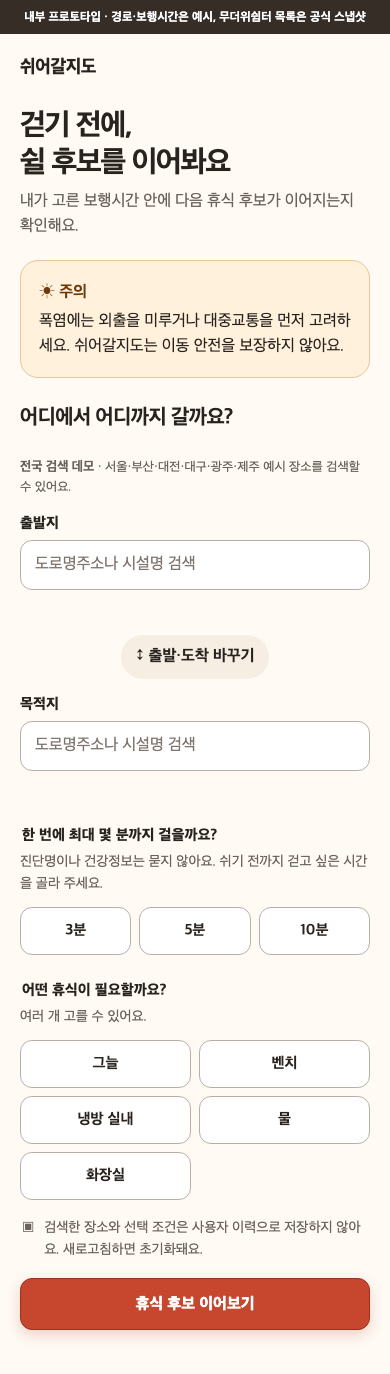
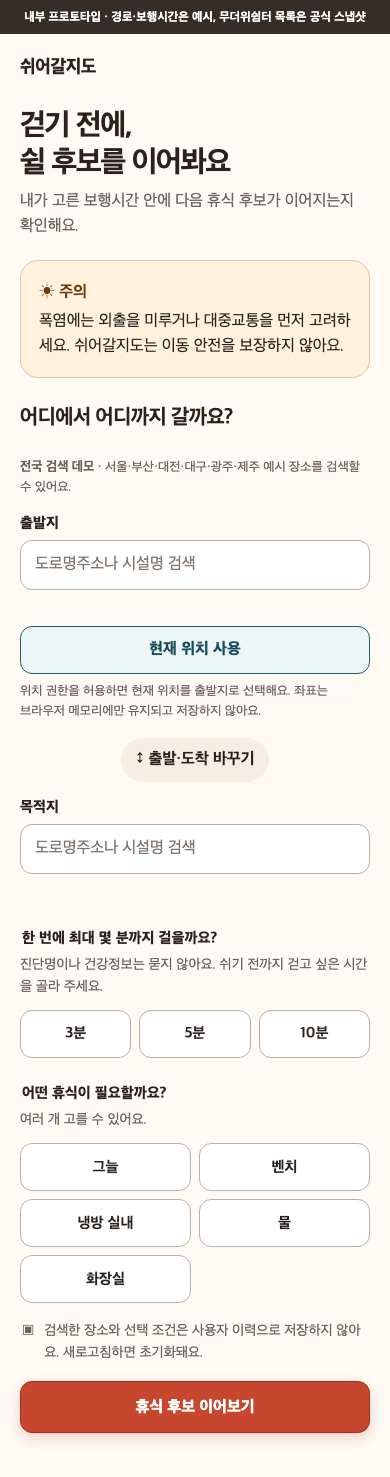
feat: support Korean input and current location

diff --git a/prototype/app.js b/prototype/app.js
@@ -32,8 +32,10 @@ const state = {
   minutes: null,
   conditions: [],
   errors: {},
-  lastResultScroll: 0
+  lastResultScroll: 0,
+  location: { status: 'idle', message: '' }
 };
+let locationRequestId = 0;
 
 function escapeHtml(value = '') {
   return value.replace(/[&<>'"]/g, (char) => ({ '&': '&amp;', '<': '&lt;', '>': '&gt;', "'": '&#39;', '"': '&quot;' })[char]);
@@ -67,6 +69,9 @@ function placeField(kind, label) {
     <input id="${kind}" type="search" data-search="${kind}" value="${escapeHtml(state.queries[kind])}" placeholder="도로명주소나 시설명 검색" autocomplete="off" aria-describedby="${kind}-selected ${kind}-error">
     <div id="${kind}-selected" class="selected-place">${selected ? `선택: ${selected.address}` : ''}</div>
     ${state.errors[kind] ? `<div id="${kind}-error" class="error">${state.errors[kind]}</div>` : ''}
+    ${kind === 'start' ? `<button type="button" class="location-button" data-action="use-location" ${state.location.status === 'loading' ? 'disabled' : ''}>${state.location.status === 'loading' ? '현재 위치 확인 중…' : '현재 위치 사용'}</button>
+      <p class="search-note">위치 권한을 허용하면 현재 위치를 출발지로 선택해요. 좌표는 브라우저 메모리에만 유지되고 저장하지 않아요.</p>
+      ${state.location.message ? `<div class="error" role="alert">${state.location.message}</div>` : ''}` : ''}
     ${searchResults(kind)}
   </div>`;
 }
@@ -82,7 +87,7 @@ function renderInput() {
       <h2 id="route-title">어디에서 어디까지 갈까요?</h2>
       <p class="search-note"><strong>전국 검색 데모</strong> · 서울·부산·대전·대구·광주·제주 예시 장소를 검색할 수 있어요.</p>
       ${placeField('start', '출발지')}
-      <button class="swap" data-action="swap">↕ 출발·도착 바꾸기</button>
+      <button class="swap" data-action="swap" ${state.start?.id === 'current-location' ? 'disabled title="현재 위치는 출발지로만 사용할 수 있어요."' : ''}>↕ 출발·도착 바꾸기</button>
       ${placeField('destination', '목적지')}
     </section>
     <fieldset class="section">
@@ -98,16 +103,31 @@ function renderInput() {
     <p class="privacy"><span aria-hidden="true">▣</span><span>검색한 장소와 선택 조건은 사용자 이력으로 저장하지 않아요. 새로고침하면 초기화돼요.</span></p>
     <button class="primary" data-action="submit">휴식 후보 이어보기</button>`;
   bindCommon();
-  document.querySelectorAll('[data-search]').forEach((input) => input.addEventListener('input', (event) => {
-    const kind = event.target.dataset.search;
-    state.queries[kind] = event.target.value;
-    state[kind] = null;
-    delete state.errors[kind];
-    renderInput();
-    const next = document.querySelector(`[data-search="${kind}"]`);
-    next.focus();
-    next.setSelectionRange(next.value.length, next.value.length);
-  }));
+  document.querySelectorAll('[data-search]').forEach((input) => {
+    const updateSearch = (target) => {
+      const kind = target.dataset.search;
+      state.queries[kind] = target.value;
+      state[kind] = null;
+      if (kind === 'start') {
+        locationRequestId += 1;
+        state.location = { status: 'idle', message: '' };
+      }
+      delete state.errors[kind];
+      renderInput();
+      const next = document.querySelector(`[data-search="${kind}"]`);
+      next.focus();
+      next.setSelectionRange(next.value.length, next.value.length);
+    };
+    input.addEventListener('compositionstart', () => { input.dataset.composing = 'true'; });
+    input.addEventListener('compositionend', (event) => {
+      delete input.dataset.composing;
+      updateSearch(event.target);
+    });
+    input.addEventListener('input', (event) => {
+      if (event.isComposing || event.target.dataset.composing === 'true') return;
+      updateSearch(event.target);
+    });
+  });
   document.querySelectorAll('input[name="minutes"]').forEach((input) => input.addEventListener('change', () => { state.minutes = Number(input.value); delete state.errors.minutes; renderInput(); }));
   document.querySelectorAll('input[name="conditions"]').forEach((input) => input.addEventListener('change', () => {
     state.conditions = input.checked ? [...state.conditions, input.value] : state.conditions.filter((c) => c !== input.value);
@@ -298,6 +318,52 @@ function handleDialogAction(action, el) {
   if (action === 'close-alternatives') { announce('대안 검토 선택됨 — 외부 서비스는 열지 않았어요.'); el.close(); }
   if (action === 'open-map' || action === 'open-source') { announce('프로토타입이라 외부 페이지는 열지 않았어요.'); el.close(); }
 }
+function useCurrentLocation() {
+  const requestId = ++locationRequestId;
+  if (!navigator.geolocation) {
+    state.location = { status: 'error', message: '이 브라우저에서는 현재 위치를 사용할 수 없어요. 시설명을 직접 입력해 주세요.' };
+    renderInput();
+    return;
+  }
+  state.location = { status: 'loading', message: '' };
+  renderInput();
+  navigator.geolocation.getCurrentPosition(
+    ({ coords }) => {
+      if (requestId !== locationRequestId) return;
+      const { latitude, longitude, accuracy } = coords;
+      if (![latitude, longitude].every(Number.isFinite)) {
+        state.location = { status: 'error', message: '현재 위치 좌표를 확인하지 못했어요. 시설명을 직접 입력해 주세요.' };
+        renderInput();
+        return;
+      }
+      const accuracyText = Number.isFinite(accuracy) ? ` · 정확도 약 ${Math.round(accuracy)}m` : '';
+      state.start = {
+        id: 'current-location',
+        name: '현재 위치',
+        address: `기기 위치정보로 선택됨${accuracyText}`,
+        region: '현재 위치',
+        lat: latitude,
+        lon: longitude,
+      };
+      state.queries.start = '현재 위치';
+      state.location = { status: 'ready', message: '' };
+      delete state.errors.start;
+      renderInput();
+      announce('현재 위치를 출발지로 선택했어요.');
+    },
+    (error) => {
+      if (requestId !== locationRequestId) return;
+      const messages = {
+        1: '위치 권한이 거부됐어요. 브라우저 설정에서 허용하거나 시설명을 직접 입력해 주세요.',
+        2: '현재 위치를 확인하지 못했어요. 잠시 후 다시 시도하거나 시설명을 직접 입력해 주세요.',
+        3: '현재 위치 확인 시간이 초과됐어요. 다시 시도하거나 시설명을 직접 입력해 주세요.',
+      };
+      state.location = { status: 'error', message: messages[error.code] || '현재 위치를 사용할 수 없어요. 시설명을 직접 입력해 주세요.' };
+      renderInput();
+    },
+    { enableHighAccuracy: true, timeout: 10000, maximumAge: 60000 },
+  );
+}
 function validateAndSubmit() {
   state.errors = {};
   if (!state.start) state.errors.start = '출발지를 선택해 주세요.';
@@ -316,6 +382,7 @@ function bindCommon() {
   document.querySelectorAll('[data-action]').forEach((button) => button.addEventListener('click', () => {
     const action = button.dataset.action;
     if (action === 'submit') validateAndSubmit();
+    if (action === 'use-location') useCurrentLocation();
     if (action === 'input') renderInput();
     if (action === 'result') renderResult();
     if (action === 'detail') { state.lastResultScroll = scrollY; renderDetail(); window.scrollTo(0,0); }

diff --git a/prototype/tests/prototype.spec.js b/prototype/tests/prototype.spec.js
@@ -138,6 +138,88 @@ test('필수값 오류를 보여주고 첫 입력에 초점을 둔다', async ({
   await expect(page.getByLabel('출발지')).toBeFocused();
 });
 
+test('한글 조합 중에는 검색 입력 DOM을 교체하지 않고 조합 완료 후 결과를 보여준다', async ({ page }) => {
+  await page.goto('/');
+  const input = page.getByLabel('출발지');
+  const original = await input.elementHandle();
+  await input.evaluate((element) => {
+    element.dispatchEvent(new CompositionEvent('compositionstart', { bubbles: true, data: '' }));
+    element.value = '서';
+    element.dispatchEvent(new InputEvent('input', {
+      bubbles: true,
+      data: '서',
+      inputType: 'insertCompositionText',
+      isComposing: true,
+    }));
+  });
+  expect(await original.evaluate((element) => element.isConnected)).toBe(true);
+  await input.evaluate((element) => {
+    element.value = '서울';
+    element.dispatchEvent(new CompositionEvent('compositionend', { bubbles: true, data: '서울' }));
+  });
+  await expect(page.getByRole('searchbox', { name: '출발지' })).toHaveValue('서울');
+  await expect(page.getByRole('button', { name: /서울시청/ })).toBeVisible();
+});
+
+test('모바일 사용자는 위치 권한으로 현재 위치를 출발지로 선택할 수 있다', async ({ page }) => {
+  await page.addInitScript(() => {
+    Object.defineProperty(navigator, 'geolocation', {
+      configurable: true,
+      value: {
+        getCurrentPosition(success) {
+          success({ coords: { latitude: 37.5665, longitude: 126.978, accuracy: 18 } });
+        },
+      },
+    });
+  });
+  await page.goto('/');
+  await page.getByRole('button', { name: '현재 위치 사용' }).click();
+  await expect(page.getByLabel('출발지')).toHaveValue('현재 위치');
+  await expect(page.getByText(/기기 위치정보로 선택됨/)).toBeVisible();
+  await expect(page.getByText(/브라우저 메모리에만/)).toBeVisible();
+  await expect(page.getByRole('button', { name: '출발·도착 바꾸기' })).toBeDisabled();
+});
+
+test('위치 권한이 거부되어도 시설명 직접 입력을 계속 사용할 수 있다', async ({ page }) => {
+  await page.addInitScript(() => {
+    Object.defineProperty(navigator, 'geolocation', {
+      configurable: true,
+      value: {
+        getCurrentPosition(_success, error) {
+          error({ code: 1 });
+        },
+      },
+    });
+  });
+  await page.goto('/');
+  await page.getByRole('button', { name: '현재 위치 사용' }).click();
+  await expect(page.getByRole('alert')).toContainText('위치 권한이 거부됐어요');
+  await expect(page.getByRole('searchbox', { name: '출발지' })).toBeEnabled();
+  await page.getByRole('searchbox', { name: '출발지' }).fill('서울');
+  await expect(page.getByRole('button', { name: /서울시청/ })).toBeVisible();
+});
+
+test('위치 확인 중 시설명을 입력하면 늦게 도착한 위치 응답이 입력을 덮어쓰지 않는다', async ({ page }) => {
+  await page.addInitScript(() => {
+    Object.defineProperty(navigator, 'geolocation', {
+      configurable: true,
+      value: {
+        getCurrentPosition(success) {
+          window.resolveCurrentLocation = () => success({
+            coords: { latitude: 37.5665, longitude: 126.978, accuracy: 18 },
+          });
+        },
+      },
+    });
+  });
+  await page.goto('/');
+  await page.getByRole('button', { name: '현재 위치 사용' }).click();
+  await page.getByRole('searchbox', { name: '출발지' }).fill('서울');
+  await page.evaluate(() => window.resolveCurrentLocation());
+  await expect(page.getByRole('searchbox', { name: '출발지' })).toHaveValue('서울');
+  await expect(page.getByRole('button', { name: /서울시청/ })).toBeVisible();
+});
+
 test('전국 장소 검색 데모는 주소와 행정구역을 함께 제공한다', async ({ page }) => {
   await page.goto('/');
   await page.getByLabel('목적지').fill('제주');

diff --git a/prototype/styles.css b/prototype/styles.css
@@ -48,8 +48,11 @@ input[type="search"]::placeholder { color: #80756e; }
 .search-result { width: 100%; min-height: 58px; border: 1px solid var(--line); background: #fff; border-radius: 12px; padding: 11px 13px; text-align: left; line-height: 1.38; }
 .search-result strong, .search-result small { display: block; }
 .search-result small { margin-top: 3px; color: var(--muted); font-size: 13px; }
-.search-note { font-size: 13px; color: var(--muted); }
+.search-note { font-size: 13px; color: var(--muted); word-break: keep-all; }
+.location-button { width: 100%; min-height: 48px; border: 1.5px solid var(--info); background: #edf6f7; color: #174e57; border-radius: 12px; padding: 10px 14px; font-weight: 800; }
+.location-button:disabled { opacity: .65; cursor: wait; }
 .swap { justify-self: center; min-height: 44px; border: 0; background: var(--soft); border-radius: 999px; padding: 0 15px; font-weight: 700; }
+.swap:disabled { opacity: .55; cursor: not-allowed; }
 fieldset { border: 0; padding: 0; margin: 0; min-width: 0; }
 .help { margin: 6px 0 12px; color: var(--muted); font-size: 14px; }
 .segment { display: grid; grid-template-columns: repeat(3, minmax(0, 1fr)); gap: 8px; }

diff --git a/prototype/README.md b/prototype/README.md
@@ -4,10 +4,10 @@
 
 ## 구현 범위
 
-- 화면 1: 전국 장소 검색 데모, 출발지·목적지 교환, 3/5/10분, 그늘·벤치·냉방 실내·물·화장실 복수 선택, 유효성 오류
+- 화면 1: 한글 IME를 보존하는 전국 장소 검색 데모, 모바일 현재 위치 출발지 선택, 출발지·목적지 교환, 3/5/10분, 그늘·벤치·냉방 실내·물·화장실 복수 선택, 유효성 오류
 - 화면 2: 구간 카드, 미니맵과 동일 순서 목록, `조건에 맞는 후보가 이어짐`·`휴식점 부족`·`정보 부족`·`경로 계산 불가`, 자료 범위, 대안, 공유 미리보기
 - 화면 3: 장소 유형·주소, 확인/미확인 조건, 운영정보 없음, 출처·갱신일·자료 신뢰 수준과 이유, 앞뒤 구간, 지도 전환 확인, 공유 미리보기
-- 개인정보: 입력값은 브라우저 메모리에만 있고 서버 전송·localStorage 저장·분석 이벤트가 없다.
+- 개인정보: 입력값과 현재 위치는 브라우저 메모리에만 있고 영구 저장·분석 이벤트가 없다. 현재 위치는 브라우저 권한 승인 후에만 읽으며 출발지 좌표를 서버에 보내지 않는다.
 - 승인 경계: 실제 공유 링크, 외부 메시지 발송, 외부 지도/원문 자동 전환, 배포를 하지 않는다.
 - 실데이터: 91MB 정규화 JSONL과 하드게이트 JSONL을 브라우저에 내려보내지 않고 30MB 읽기 전용 SQLite 공간 인덱스와 제한된 로컬 JSON API를 사용한다.
 
@@ -61,6 +61,8 @@ npm run serve
 
 저장소 루트의 `vercel.json`이 공개 가능한 UI 파일 3개(`index.html`, `styles.css`, `app.js`)만 `dist/`로 복사한다. Vercel 프로젝트의 **Root Directory는 저장소 루트**로 두고 재배포한다. 루트 `index.html`이 없어서 발생하던 `404: NOT_FOUND`는 이 빌드 출력으로 해결한다.
 
+현재 위치 기능은 HTTPS 또는 `localhost`에서만 동작한다. 페이지가 열릴 때 자동으로 위치를 읽지 않고, 사용자가 **현재 위치 사용**을 누른 뒤에만 브라우저 권한을 요청한다.
+
 공개 배포에는 이용조건 검토 전 실데이터·SQLite와 로컬 Node 서버를 포함하지 않는다. 따라서 클릭 프로토타입은 열리지만 결과의 실데이터 영역은 “실데이터를 불러오지 못했어요”라는 제한 상태를 표시한다. 실제 API 배포는 데이터 재배포 조건과 서버리스 저장구조를 별도로 승인한 뒤 진행한다.
 
 ## 자동 테스트
@@ -76,32 +78,34 @@ npm test
 
 ```text
 Python hard-gate tests: 3 passed
-Running 29 tests using 2 workers
-29 passed
+Running 33 tests using 2 workers
+33 passed
 ```
 
 검증 항목:
 
 1. 필수값 오류와 첫 오류 입력 초점
-2. 전국 검색 데모의 주소·행정구역 표시
-3. 3/5/10분 및 복수 휴식 조건, 시간 한도·조건 자료 하드 게이트
-4. 휴식점 부족과 초과 구간·대안
-5. 정보 부족과 시설 부재의 구분
-6. 경로 계산 불가 시 임의 시간 미표시
-7. 상세 출처·갱신일·신뢰 이유·운영정보 없음
-8. 결과·상세 구간시간 일치와 대안 선택 44px 터치 영역
-9. 실제 전송 없는 공유 미리보기
-10. 입력·결과·상세 390px DOM 가로 오버플로 0
-11. 390px 핵심 3화면 스크린샷 생성
-12. 잘못 인코딩된 URL의 400 응답과 서버 생존
-13. 인덱스 상태의 전량 60,672건·공식 출처
-14. 좌표 주변 반경 검색과 냉방 `true/false/unknown` 3값 필터
-15. 출처·원본 ID·수정시각·운영시간·경고 보존 및 `raw` 비노출
-16. 잘못된 좌표·반경·필터 및 필수 좌표 누락·빈값의 HTTP 400
-17. 목적지 주변 공식 실데이터의 브라우저 연결
-18. API의 하드게이트 3상태·사유 보존과 `information_insufficient` 우선
-19. `candidateOnly=true`의 `internal_route_candidate` 전용 필터
-20. 서울 표본 상위 3건의 정보 부족·제한 사유·냉방 수량 확인 범위 표시
+2. 한글 조합 입력 중 DOM 유지와 조합 완료 후 검색 결과 표시
+3. 모바일 위치 권한으로 현재 위치를 출발지로 선택하고, 권한 거부·늦은 위치 응답에도 시설명 직접 입력을 유지
+4. 전국 검색 데모의 주소·행정구역 표시
+5. 3/5/10분 및 복수 휴식 조건, 시간 한도·조건 자료 하드 게이트
+6. 휴식점 부족과 초과 구간·대안
+7. 정보 부족과 시설 부재의 구분
+8. 경로 계산 불가 시 임의 시간 미표시
+9. 상세 출처·갱신일·신뢰 이유·운영정보 없음
+10. 결과·상세 구간시간 일치와 대안 선택 44px 터치 영역
+11. 실제 전송 없는 공유 미리보기
+12. 입력·결과·상세 390px DOM 가로 오버플로 0
+13. 390px 핵심 3화면 스크린샷 생성
+14. 잘못 인코딩된 URL의 400 응답과 서버 생존
+15. 인덱스 상태의 전량 60,672건·공식 출처
+16. 좌표 주변 반경 검색과 냉방 `true/false/unknown` 3값 필터
+17. 출처·원본 ID·수정시각·운영시간·경고 보존 및 `raw` 비노출
+18. 잘못된 좌표·반경·필터 및 필수 좌표 누락·빈값의 HTTP 400
+19. 목적지 주변 공식 실데이터의 브라우저 연결
+20. API의 하드게이트 사유 보존과 `information_insufficient` 우선
+21. 접근조건 검증 전 `candidateOnly=true` 빈 목록
+22. 서울 표본 상위 3건의 정보 부족·제한 사유·냉방 수량 확인 범위 표시
 
 브라우저 콘솔 검증: 메시지 0개, JavaScript 오류 0개.
 금지 문구 정적 검사: `안전한 경로`, `이동해도 됩니다`, `운영 중입니다`, `열사병을 예방`, `휴식점이 없습니다` 0건.
